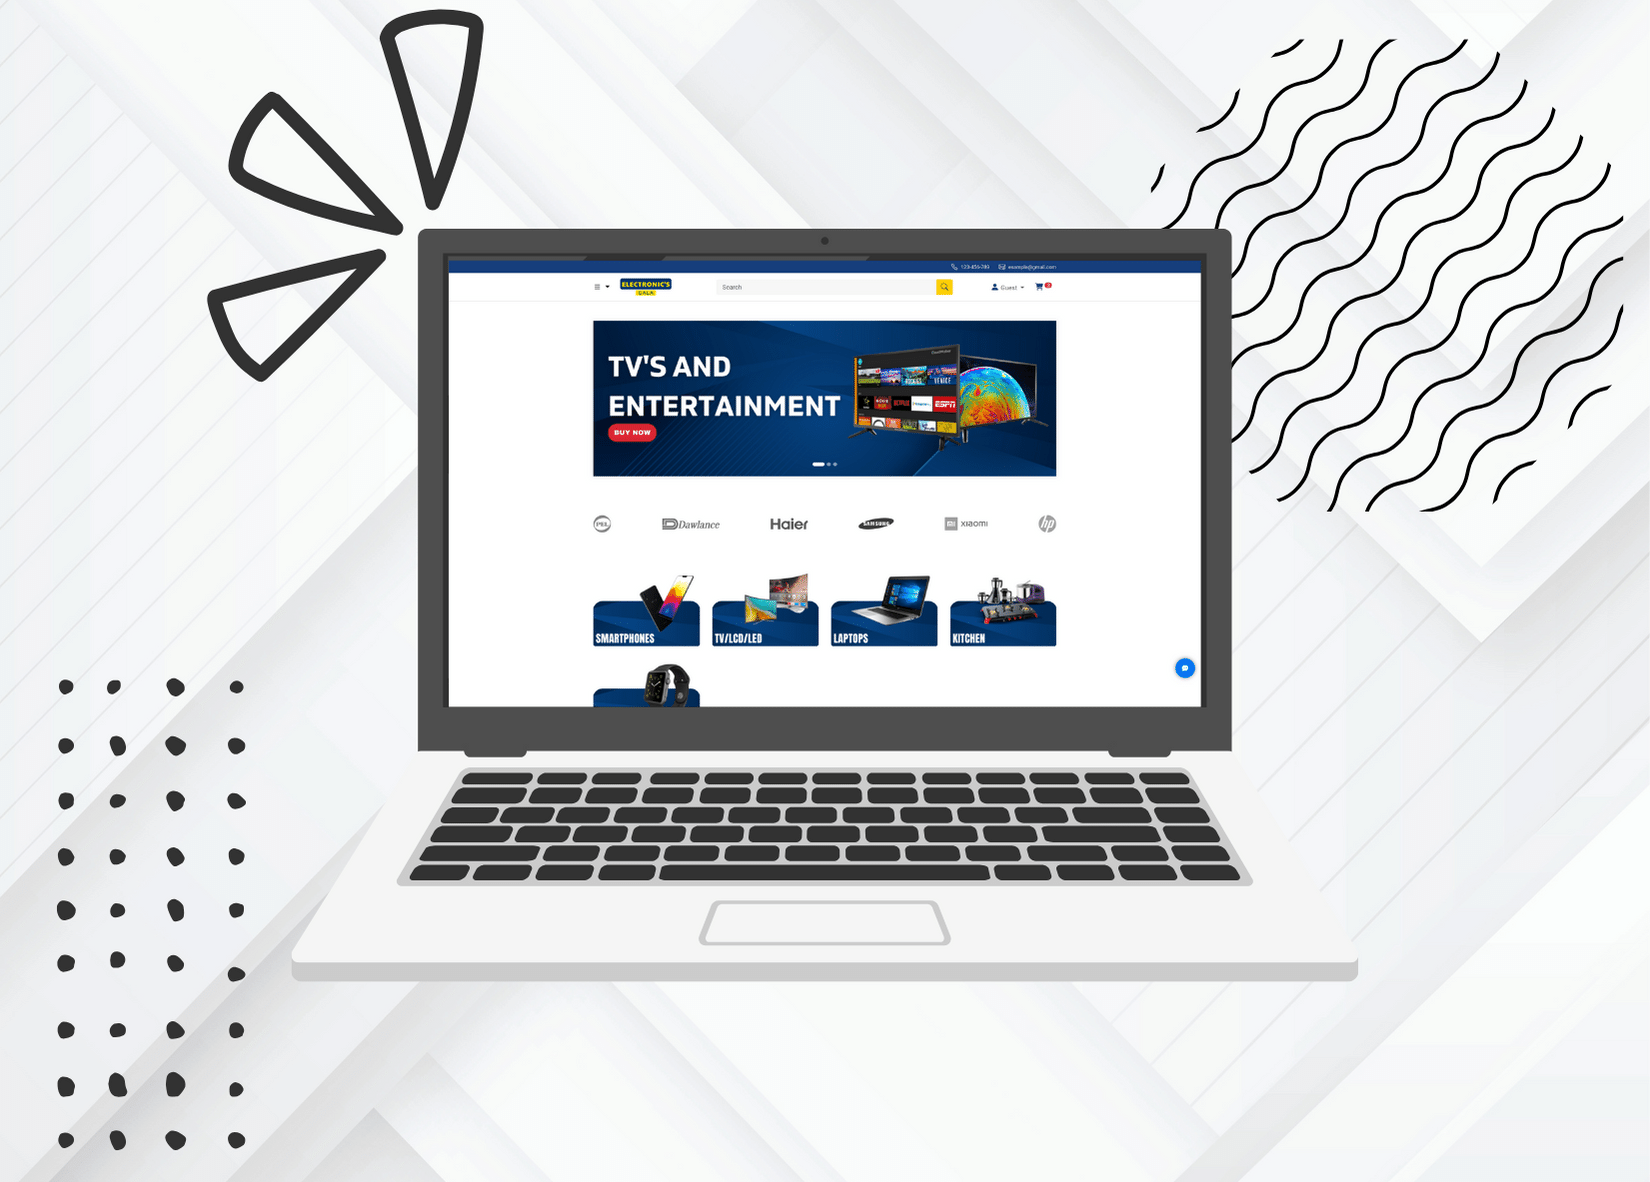
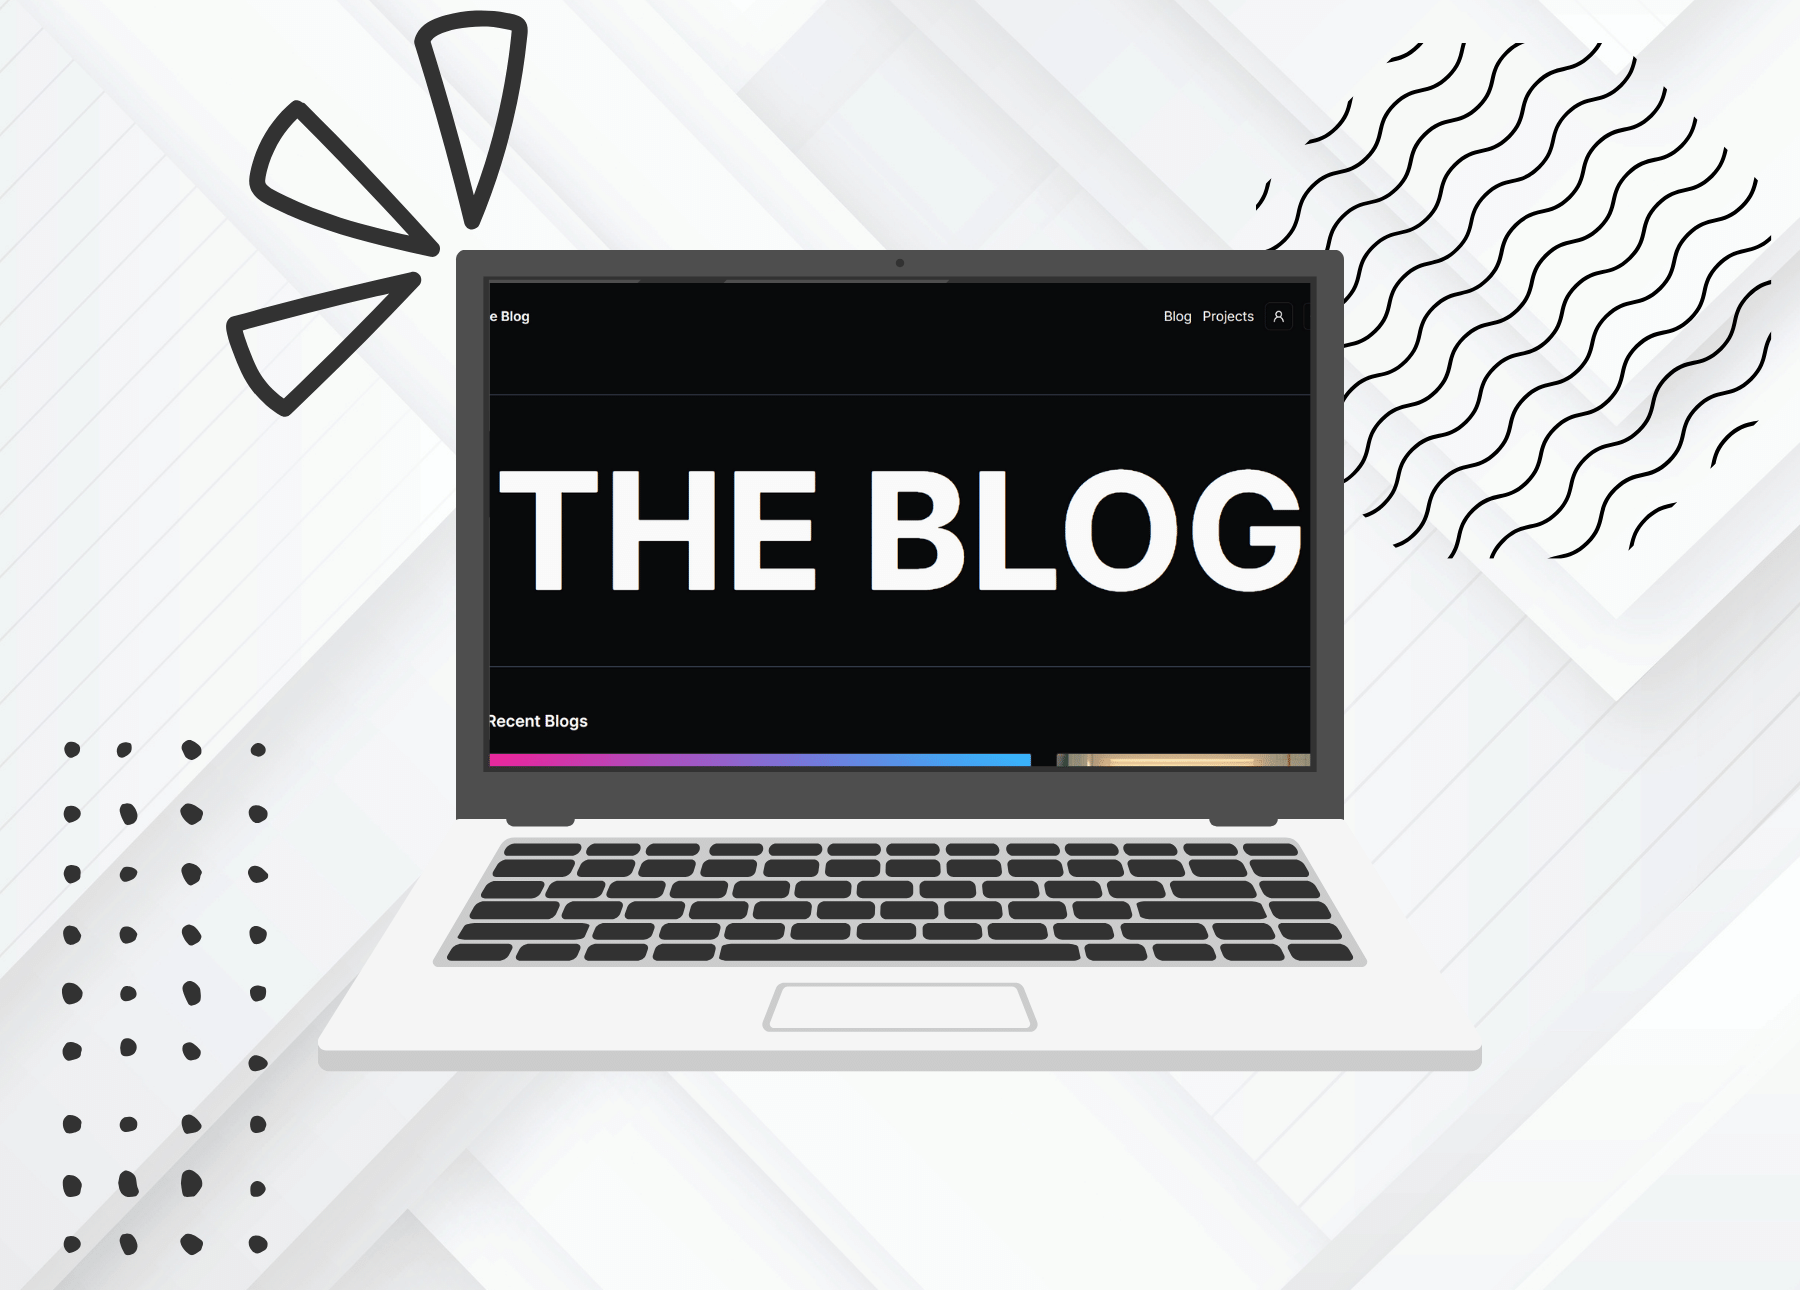
added new project

Changed region(s): [[0.2473, 0.2132, 0.7418, 0.6091]]

diff --git a/app/_components/utils/projectData.ts b/app/_components/utils/projectData.ts
@@ -1,19 +1,34 @@
 export default {
   project_data: [
     {
-      name: "Electronics Gala",
+      name: "The Blog",
       id: 1,
-      url: "https://github.com/ehtishamsh/Electronics-Gala",
+      url: "https://github.com/ehtishamsh/theblog",
       img_url: "project1.png",
+      description:
+        "The Blog is a dynamic blogging platform built with Shadcn UI, TypeScript, Next.js 14, Prisma,Next-Auth, and PostgreSQL. Users can seamlessly read and publish blogs using a user-friendly interface. The editor is powered by Tiptap, providing a rich and intuitive writing experience.",
+      language: [
+        "SiTypescript",
+        "SiNextdotjs",
+        "SiPrisma",
+        "SiPostgresql",
+        "SiTailwindcss",
+      ],
+    },
+    {
+      name: "Electronics Gala",
+      id: 2,
+      url: "https://github.com/ehtishamsh/Electronics-Gala",
+      img_url: "project2.png",
       description:
         "Electronic Gala is a user-friendly, responsive electronic ecommerce website that allows users to browse and purchase a wide range of electronic gadgets and accessories. This website is built using a combination of front-end and back-end technologies to ensure a smooth and secure shopping experience.",
       language: ["SiPhp", "SiMysql", "SiJavascript", "SiBootstrap"],
     },
     {
       name: "Filmbox",
-      id: 2,
+      id: 3,
       url: "https://github.com/ehtishamsh/FIlmBox",
-      img_url: "project2.png",
+      img_url: "project3.png",
       description:
         "Filmbox is a comprehensive movies and TV shows database website that allows you to explore a vast library, view detailed information, search using a powerful search bar, and watch embedded trailers. The site seamlessly integrates with the TMDB API to provide users with an immersive experience.",
       language: ["SiReact", "SiTailwindcss", "SiJavascript", "SiAxios"],
